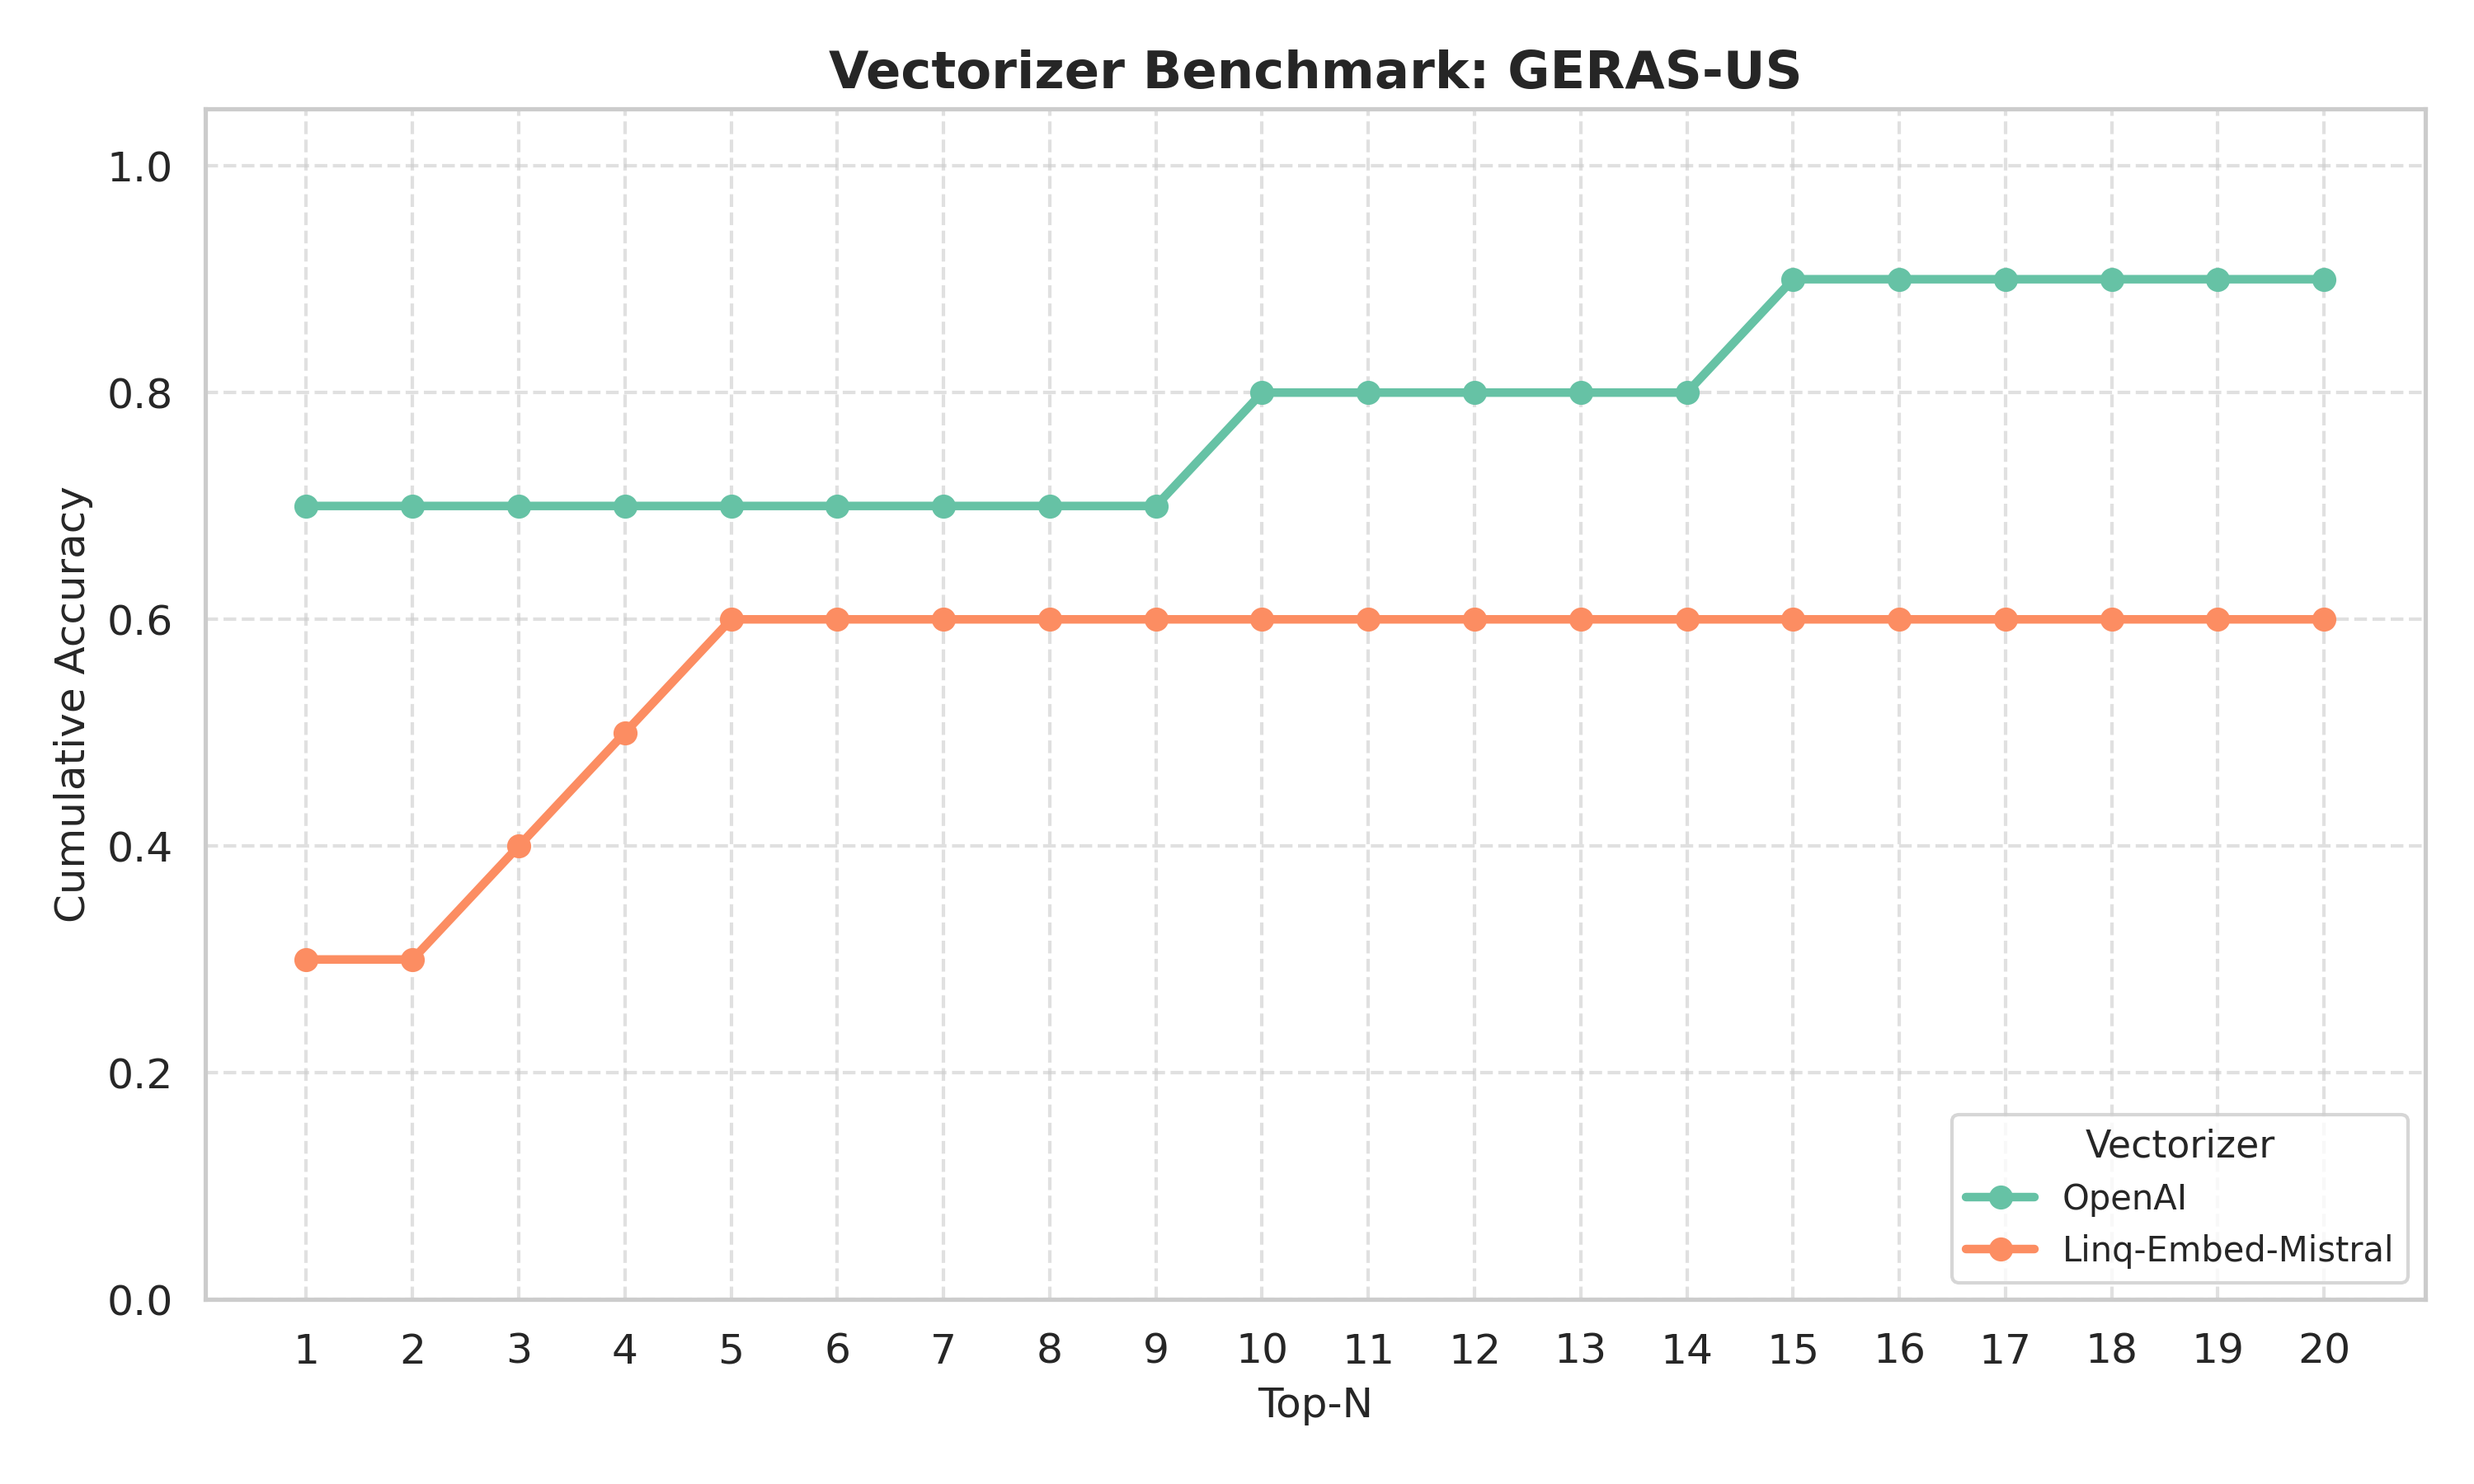
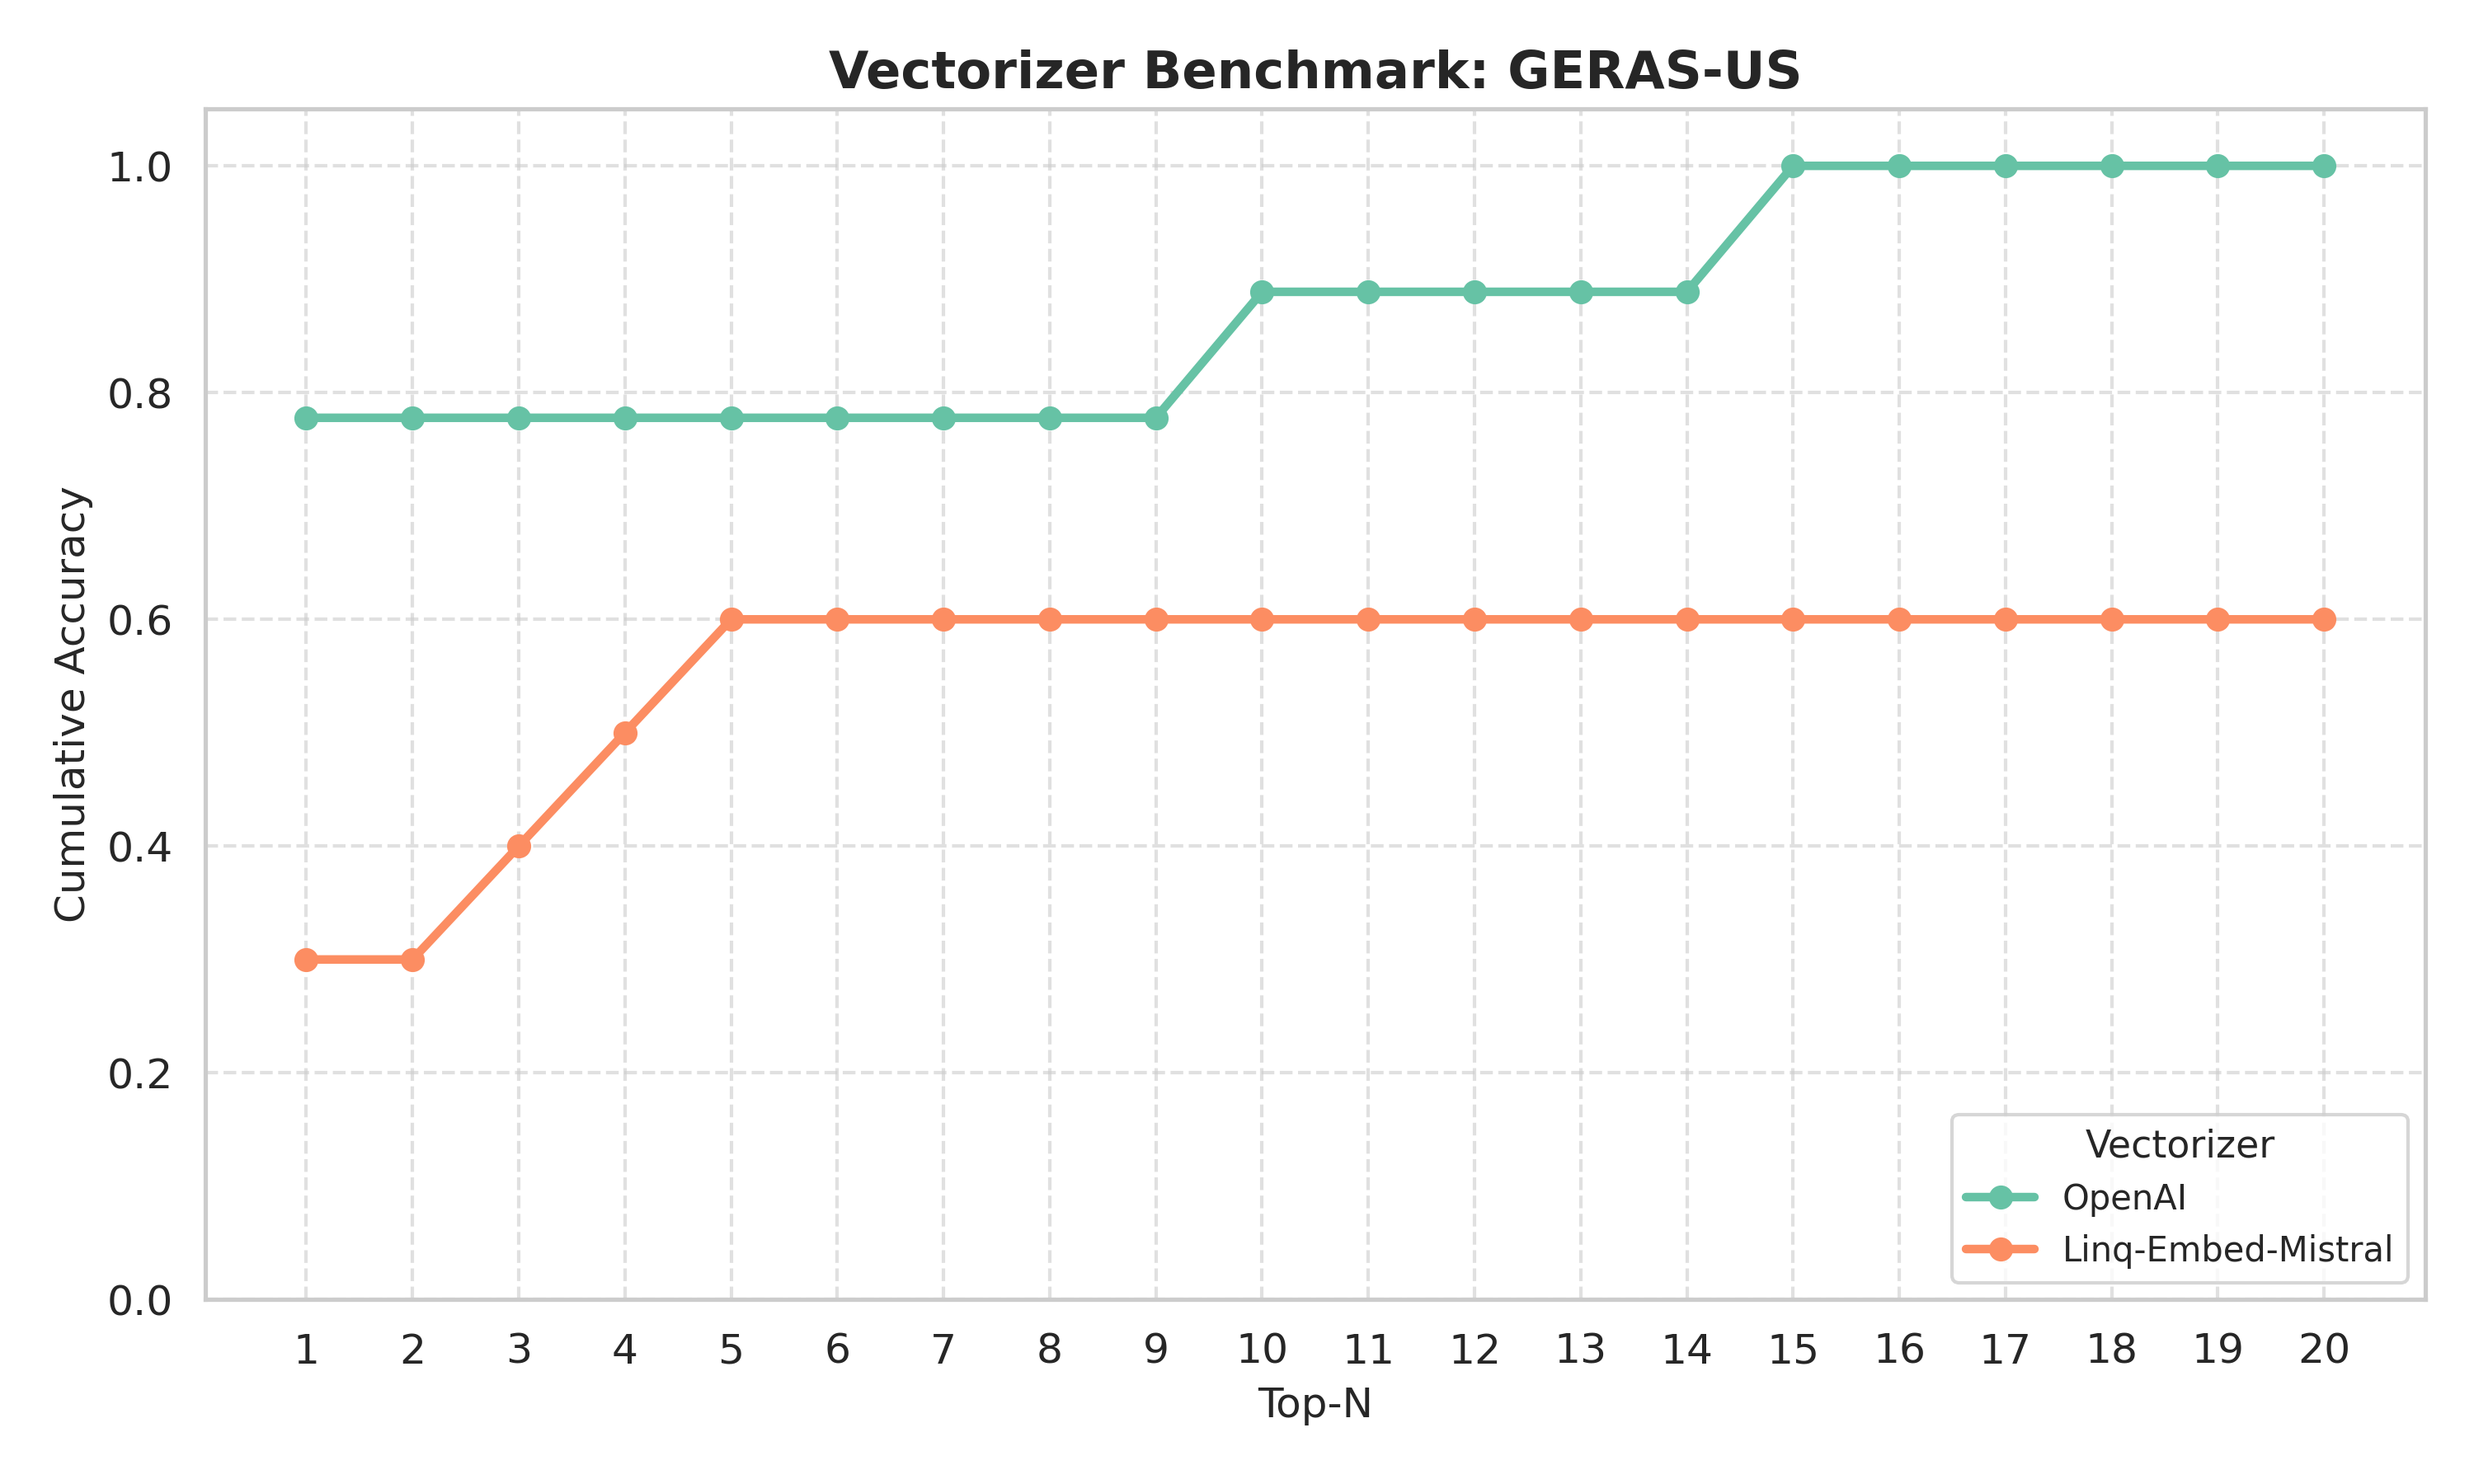
update results

Changed region(s): [[0.124, 0.1244, 0.961, 0.3422], [0.713, 0.0933, 0.961, 0.1244]]

diff --git a/ad-llm-embeddings-benchmark/visualization.py b/ad-llm-embeddings-benchmark/visualization.py
@@ -41,7 +41,7 @@ def plot_top_n_accuracies(
     plt.tight_layout()
 
     if save_path:
-        plt.savefig(save_path + "/" + "overall_" + vectorizer_name +".png", dpi=300)
+        plt.savefig(save_path + "/" + "overall_" + vectorizer_name + ".png", dpi=300)
         plt.close()
     else:
         plt.show()
@@ -110,26 +110,22 @@ def plot_topn_per_cohort(
 
 
 results_openai = {
-    'GERAS-I': [0.5833333333333334, 0.5833333333333334, 0.6666666666666666, 0.6666666666666666, 0.6666666666666666,
-                0.6666666666666666, 0.6666666666666666, 0.6666666666666666, 0.6666666666666666, 0.6666666666666666,
-                0.6666666666666666, 0.6666666666666666, 0.6666666666666666, 0.6666666666666666, 0.6666666666666666,
-                0.6666666666666666, 0.75, 0.8333333333333334, 0.8333333333333334, 0.8333333333333334],
-    'GERAS-US': [0.7, 0.7, 0.7, 0.7, 0.7, 0.7, 0.7, 0.7, 0.7, 0.8, 0.8, 0.8, 0.8, 0.8, 0.9, 0.9, 0.9, 0.9, 0.9, 0.9],
-    'GERAS-J': [0.5714285714285714, 0.7619047619047619, 0.8095238095238095, 0.8095238095238095, 0.8571428571428571,
-                0.8571428571428571, 0.8571428571428571, 0.8571428571428571, 0.8571428571428571, 0.8571428571428571,
-                0.8571428571428571, 0.8571428571428571, 0.8571428571428571, 0.8571428571428571, 0.8571428571428571,
-                0.8571428571428571, 0.8571428571428571, 0.8571428571428571, 0.8571428571428571, 0.8571428571428571],
-    'GERAS-II': [0.6666666666666666, 0.6666666666666666, 0.6666666666666666, 0.6666666666666666, 0.6666666666666666,
-                 0.6666666666666666, 0.6666666666666666, 0.6666666666666666, 0.6666666666666666, 0.7777777777777778,
+    'GERAS-I': [0.6363636363636364, 0.6363636363636364, 0.7272727272727273, 0.7272727272727273, 0.7272727272727273,
+                0.7272727272727273, 0.7272727272727273, 0.7272727272727273, 0.7272727272727273, 0.7272727272727273,
+                0.7272727272727273, 0.7272727272727273, 0.7272727272727273, 0.7272727272727273, 0.7272727272727273,
+                0.7272727272727273, 0.8181818181818182, 0.9090909090909091, 0.9090909090909091, 0.9090909090909091],
+    'GERAS-US': [0.7777777777777778, 0.7777777777777778, 0.7777777777777778, 0.7777777777777778, 0.7777777777777778,
                  0.7777777777777778, 0.7777777777777778, 0.7777777777777778, 0.7777777777777778, 0.8888888888888888,
-                 0.8888888888888888, 0.8888888888888888, 0.8888888888888888, 0.8888888888888888, 0.8888888888888888],
-    'PREVENT Dementia': [0.22641509433962265, 0.24528301886792453, 0.3018867924528302, 0.3018867924528302,
-                         0.33962264150943394, 0.33962264150943394, 0.33962264150943394, 0.33962264150943394,
-                         0.3584905660377358, 0.37735849056603776, 0.39622641509433965, 0.39622641509433965,
-                         0.39622641509433965, 0.39622641509433965, 0.39622641509433965, 0.39622641509433965,
-                         0.39622641509433965, 0.39622641509433965, 0.39622641509433965, 0.39622641509433965]}
-
-
+                 0.8888888888888888, 0.8888888888888888, 0.8888888888888888, 0.8888888888888888, 1.0, 1.0, 1.0, 1.0,
+                 1.0, 1.0],
+    'GERAS-J': [0.6, 0.8, 0.85, 0.85, 0.9, 0.9, 0.9, 0.9, 0.9, 0.9, 0.9, 0.9, 0.9, 0.9, 0.9, 0.9, 0.9, 0.9, 0.9, 0.9],
+    'GERAS-II': [0.75, 0.75, 0.75, 0.75, 0.75, 0.75, 0.75, 0.75, 0.75, 0.875, 0.875, 0.875, 0.875, 0.875, 1.0, 1.0, 1.0,
+                 1.0, 1.0, 1.0],
+    'PREVENT Dementia': [0.5217391304347826, 0.6086956521739131, 0.6521739130434783, 0.6956521739130435,
+                         0.782608695652174, 0.782608695652174, 0.782608695652174, 0.782608695652174, 0.8260869565217391,
+                         0.8695652173913043, 0.9130434782608695, 0.9130434782608695, 0.9130434782608695,
+                         0.9130434782608695, 0.9130434782608695, 0.9130434782608695, 0.9130434782608695,
+                         0.9130434782608695, 0.9130434782608695, 0.9130434782608695]}
 
 results_linq = {
     'GERAS-I': [0.4166666666666667, 0.5, 0.5833333333333334, 0.5833333333333334, 0.6666666666666666, 0.6666666666666666,
@@ -150,8 +146,8 @@ results_linq = {
                          0.22641509433962265, 0.24528301886792453, 0.24528301886792453, 0.24528301886792453,
                          0.2830188679245283, 0.2830188679245283, 0.3018867924528302, 0.3018867924528302]}
 
-
 plot_top_n_accuracies(accuracies=results_linq, vectorizer_name="Linq-Embed-Mistral", save_path="plots")
+plot_top_n_accuracies(accuracies=results_openai, vectorizer_name="OpenAI", save_path="plots")
 
 all_accuracies = {
     "OpenAI": results_openai,

diff --git a/ad-llm-embeddings-benchmark/benchmarking.py b/ad-llm-embeddings-benchmark/benchmarking.py
@@ -77,6 +77,10 @@ class Benchmark:
         cdm_norms = np.linalg.norm(cdm_matrix, axis=1)
 
         for _, row in cohort_with_vectors.iterrows():
+            # if there is no corrsponding vector in the groundtruth, skip this row
+            if self.groundtruth[self.groundtruth[cohort_name] == row["Column_Name"]].empty:
+                total = total - 1
+                continue
             vector = row["vector"]
             v_norm = np.linalg.norm(vector)
             similarities = (cdm_matrix @ vector) / (cdm_norms * v_norm)
@@ -93,6 +97,8 @@ class Benchmark:
                     "cohort_variable": row["Column_Name"],
                     "cohort_definition": row["Description"],
                     "matched_top_1_cdm_definition": self.groundtruth.iloc[top_indices[0]]["Definition"],
+                    #"groundtruth_definition": self.groundtruth.loc[row["Column_Name"]]["Definition"],
+                    "matched_top_1_cdm_variable": self.groundtruth.iloc[top_indices[0]]["Feature"],
                     "matched_top_1_similarity": similarities[top_indices[0]],
                     **{f"in_top_{i + 1}": row["Column_Name"] in top_concepts[:i + 1] for i in range(n)}
                 })
@@ -101,7 +107,7 @@ class Benchmark:
 
         if self.debug:
             os.makedirs(self.debug_dest_dir, exist_ok=True)
-            pd.DataFrame(matching_info).to_csv(f"{self.debug_dest_dir}/{cohort_name}_matching_info.csv", index=False)
+            pd.DataFrame(matching_info).to_csv(f"{self.debug_dest_dir}/{self.vectorizer.model_name}_{cohort_name}_matching_info.csv", index=False)
 
         return cumulative_accuracies
 

diff --git a/ad-llm-embeddings-benchmark/main.py b/ad-llm-embeddings-benchmark/main.py
@@ -1,5 +1,7 @@
 
 import os
+from typing import Dict, List
+from typing import Dict, List
 from benchmarking import Benchmark
 from vectorizers import OpenAIVectorizer, LinqEmbedMistralVectorizer
 import logging
@@ -8,6 +10,11 @@ logging.basicConfig(
     level=logging.INFO,  # Or DEBUG for more detailed logs
     format='%(asctime)s - %(name)s - %(levelname)s - %(message)s'
 )
+# Set the default logging level to WARNING for all loggers
+logging.getLogger().setLevel(logging.WARNING)
+
+# Set the logging level to INFO for the benchmarking class
+logging.getLogger('benchmarking').setLevel(logging.INFO)
 
 # load the OpenAI API key from env
 openai_api_key = os.getenv("OPENAI_API_KEY")
@@ -19,6 +26,7 @@ vectorizers = [openai_vectorizer]
 
 for vectorizer in vectorizers:
     print(f"Running benchmark for {vectorizer.model_name}...")
-    benchmark = Benchmark(vectorizer=vectorizer)
-    accuracies = benchmark.get_accuracies()
+    benchmark : Dict[str, List[float]]= Benchmark(vectorizer=vectorizer)
+    accuracies: Dict[str, List[float]] = benchmark.get_accuracies()
     print(f"Accuracies for {vectorizer.model_name}: {accuracies}")
+    
